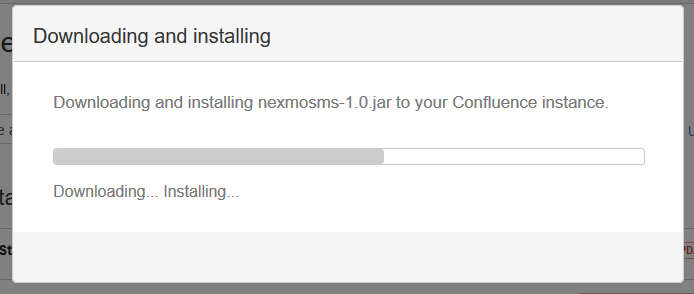
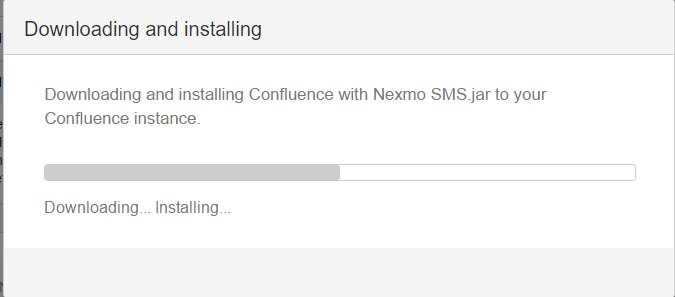
changes in README.md

Changed region(s): [[0.0, 0.0, 1.0, 1.0], [0.0622, 0.4898, 0.9333, 0.7347], [0.0622, 0.2755, 0.8711, 0.4286]]

diff --git a/README.md b/README.md
@@ -41,7 +41,7 @@ For example – when any new knowledgebase article is created in XYZ space, the 
 
     <img src="https://github.com/AdvaiyaLabs/Confluence-with-Nexmo-SMS/blob/master/Docs/image3.png" width=400>
 
-4.  Click on **Browse** and select the **nexmosms-1.0.jar** file.
+4.  Click on **Browse** and select the **Confluence with Nexmo SMS.jar** file.
 
     <img src="https://github.com/AdvaiyaLabs/Confluence-with-Nexmo-SMS/blob/master/Docs/image4.PNG" width=400>
 
